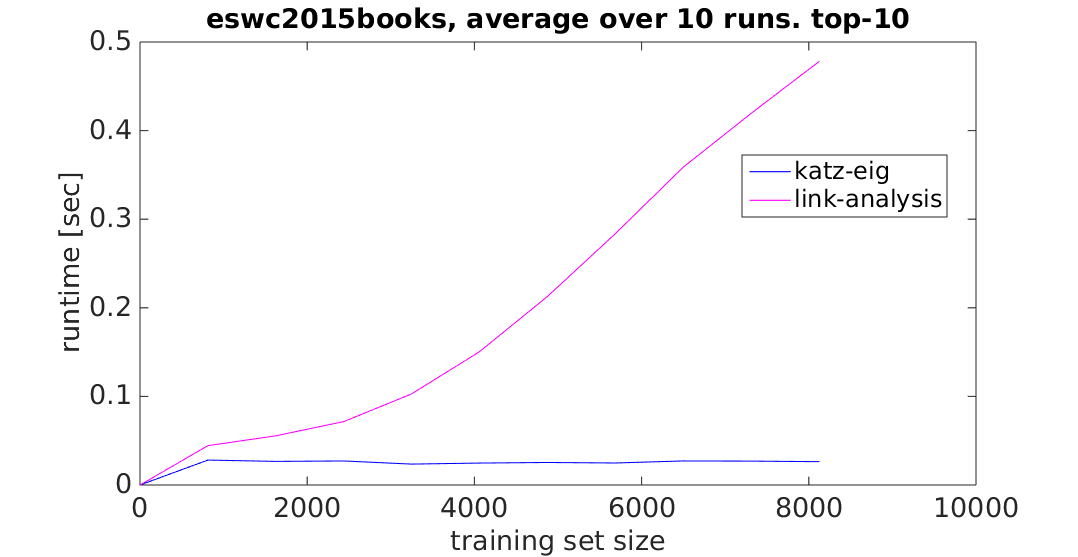
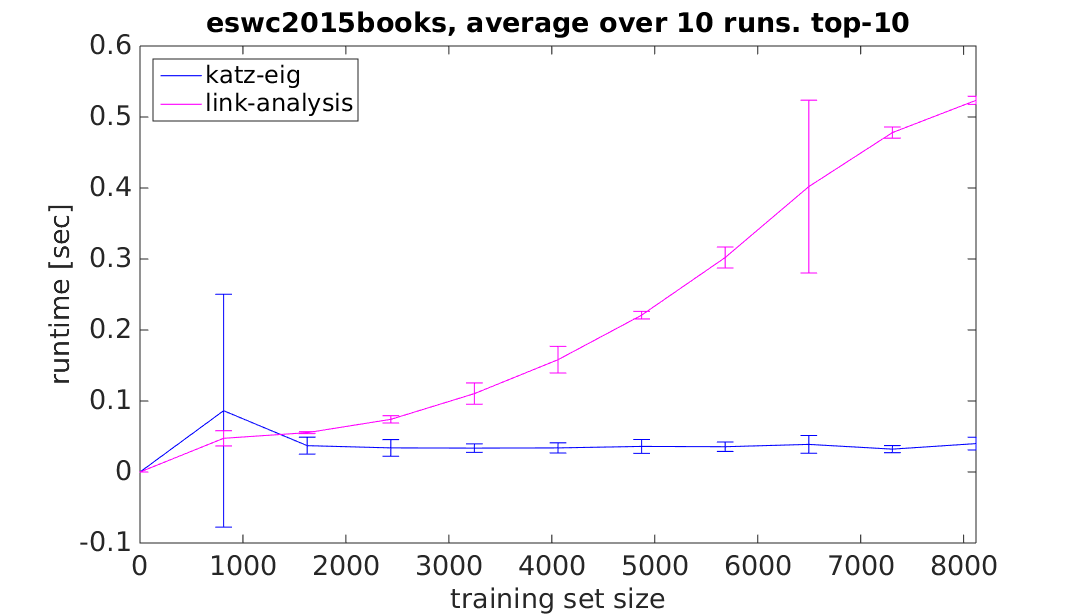
Poked in new learning curves with std deviation.
Slowpoking discussion/result a little bit.

diff --git a/report/discussion.tex b/report/discussion.tex
@@ -3,8 +3,81 @@
 \textit{Can free form sections here}
 
 \section{Recommender systems}
-
 \textit{Overall design of recommender systems and the one I designed}
+
+The recommender system developed in this thesis is bare bones with not many features. It's reasonable as it's just a first prototype, or a core, for a larger recommender system to be built upon.
+
+The list of features a modern recommender system could have is large. An important feature is the act of explaining recommendations which can be seen in both Netflix and Spotify. According to Netflix
+\footnote{\textit{Ref here}}
+explaining recommendations improves the effectiveness of the recommender system a lot. This is also supported by the literature
+\Warning[TODO]{ Ref }. The reasoning is that it increases the trust for the recommendations, if the recommendations come with a note ``Recommended to you because you watched Die Hard'' and if you liked Die Hard you're more likely to take the recommendations seriously.
+
+Another important feature is diversity of the recommendations. Netflixed notes
+\footnote{\textit{ref here}}
+that one user account might represent several different people. So a family could share an account at Netflix and use it to watch a variety of different movies, the kids might watch animated movies but the father in the house might watch action movies and someone else might only care for drama. In such cases it's very important not to only recommend one kind of movie but rather recommend different kinds of movies. For example a list of only action movies is not as useful as a mix of action, drama and animated movies.
+
+\textit{Diversity}
+\Warning[TODO]{ Ref }
+is a metric analogous to \textit{F-measure} but it instead values diversified recommendations. Other recommender algorithms (or a combinations of algorithms) might be needed for more diversity in their recommendations.
+
+The distinction between offline and online recommender systems is something not considered in the recommender system design by this thesis, but it's an important one. Instead of generating recommendations on a fixed schedule, like once a day, it is desirable to generate recommendations in real time. The way Netflix does it is to use faster and simpler algorithms for real time recommendations and more advanced supervised learning algorithms for offline recommendations which are more computationally complex.
+%As the complexity of the system grows the line between offline and online algorithms become more blurred and ...
+
+\subsection{System}
+
+In the future the functionality of the exporter module could be replaced by either the remote API or the admin web interface.
+
+The filtering functionality in the reader module could be moved to an external tool operating directly on the database. This would allow for a more efficient input of the interaction history data by streaming it directly into the database. The current implementation loads it all into memory and thereafter populates the database, which might cause memory problems if large interaction history is given.
+
+Extensions to allow for metadata about the interactions could be beneficial. Filtering away very old interactions or the ability to split the training and test sets depending on the interaction date can be very useful.
+
+
+\section{Datasets}
+
+The usage of the \textit{movielens1m} dataset can be questioned as the dataset is made up by ratings and then converted to unweighted binary form. This introduces a lot of noise and the question is what conclusions can be drawn from such a dataset.
+
+The optimal parameters for \textit{eswc2015books} are fairly strange. For \textit{katz-eig} $K = 1$ gives the best recommendation quality, but that means the recommendations are given by a rank-1 approximation. Also for \textit{link-analysis} $\gamma = 0$ gives the best recommendation quality. Which means that no penalizing users with many purchases occur.
+
+
+\section{Evaluation}
+
+The evaluation metric of \textit{F-measure} can be questioned/discussed...? Why no cost function? Probably would be better (if could be found, but can it?) ?
+
+Alternative evaluation metrics. \rmse, rank, accuracy, diversity.
+
+A common deficiency for evaluation metrics is the lack of formalization. The metrics themselves are well defined but implementation details differ and are sometimes missing which can lead to different results between similar experiments.
+
+
+\section{Parameter analysis}
+
+\subsection{katz-eig}
+
+\subsection{link-analysis}
+
+Changes of $\eta$ as long as $\eta > 0$ appears to not have a very big impact. This can be explained as the role of $\eta$ is to keep the user representativeness score high for each user to itself. The normalization step in the nextcoming iteration removes the impact of larger value of $\eta$.
+
+$\eta < 0 $ is harder to explain...
+
+Referenced article introduces $\eta = 1$, but treats it as a constant. No further comments about it!
+
+Same article: $\gamma$ is said to be in the range 0 to 1, but I found that larger ones are good and often even better.
+
+
+\section{Parameter tuning}
+
+Optimization technique interesting to try is bayesian optimization!
+
+Clustering would be nice to explore.
+
+The lack of an easy cost function to optimize against is a hinderance. In practice calculating the top-10 recommendations is a slow process and a faster way to evaluate the recommendation quality given a set of parameters would give a nice speed improvement.
+
+
+\section{Algorithm comparisons}
+
+\textit{katz-eig} has much better runtime performance compared to \textit{link-analysis} and generates comparable recommendation quality. \textit{link-analysis} have slightly better quality for sparse datasets, which is supported by the literature. In fact the primary motivation for \textit{link-analysis} is to generate recommendations for sparse data. But still, \textit{katz-eig} gives comparable performance.
+
+Optimization is very expensive, but generating recommendations for the full datasets for both algorithms are fairly fast. They can both be useful commercially when run offline.
+
 
 \section{All the rest...}
 
@@ -14,18 +87,4 @@
 
 \input{discussion/results.tex}
 \input{discussion/method.tex}
-
-Future direction/thoughts about recommender systems.
-
-Combinations of different algorithms instead of one super algorithm to rule them all.
-
-Diversity is important! Netflix has identified that one account is used by the whole family, so diverse recommendations to fulfill the need of the different family members are needed. Diversity is a measure for that, also used by the eswc competition.
-
-Explaining recommendations increases the trust for the recommendations and make them more effective.
-
-Offline/online and generating recommendations in real time.
-
-Changes of $\eta$ as long as $\eta > 0$ appears to not have a very big impact. This can be explained as the role of $\eta$ is to keep the user representativeness score high for each user to itself. The normalization step in the nextcoming iteration removes the impact of larger value of $\eta$.
-
-$\eta < 0 $ is harder to explain...
 

diff --git a/report/results/algo_comp.tex b/report/results/algo_comp.tex
@@ -13,19 +13,20 @@
 
 \begin{table}[h!]
     \centering
-    \begin{tabular}{| c | c | c | }
+    \begin{tabular}{| c | c | c | c | c |}
         \hline
-        \textbf{}               & \textbf{katz-eig} & \textbf{link-analysis} \\ \hline
-        \textit{alphaS}         & 0.322334 s        & 80.51777 s             \\ \hline
-        \textit{eswc2015books}  & 0.027862 s        & 1.527216 s             \\ \hline
-        \textit{eswc2015movies} & 48.76161 s        &                        \\ \hline
-        \textit{eswc2015music}  &                   &                        \\ \hline
-        \textit{movielens1m}    & 1.197174 s        & 75.92951 s             \\ \hline
-        \textit{romeo}          & 0.166743 s        &                        \\ \hline
+        \textbf{}               & \multicolumn{2}{c|}{\textbf{katz-eig}} & \multicolumn{2}{c|}{\textbf{katz-eig}} \\ \hline
+        \textit{alphaS}         & 0.322334 s & 0.1        & 80.51777 s   & 0.1           \\ \hline
+        \textit{eswc2015books}  & 0.027862 s & 0.1        & 1.527216 s   & 0.1           \\ \hline
+        \textit{eswc2015movies} & 48.76161 s & 0.1        &              & 0.1           \\ \hline
+        \textit{eswc2015music}  &            & 0.1        &              & 0.1           \\ \hline
+        \textit{movielens1m}    & 1.197174 s & 0.1        & 75.92951 s   & 0.1           \\ \hline
+        \textit{romeo}          & 0.166743 s & 0.1        &              & 0.1           \\ \hline
     \end{tabular}
     \caption{Runtime of the algorithms using the full interaction history using the optimized parameters given in \appendixref{app:opt_params}.}
     \label{tab:alg_full_time}
 \end{table}
+\Warning[TODO]{ avg over 10 runs, std dev, remove these }
 
 \begin{table}[h!]
     \centering

diff --git a/report/results/tuning/linkanalysis.tex b/report/results/tuning/linkanalysis.tex
@@ -8,15 +8,17 @@
         Does a gridsearch over a subset of $\gamma$ and $\eta$, given a fixed step size.
     \item[rand]
         Randomly samples over a subspace of $\gamma$ and $\eta$, given a fixed number of samples.
-    \item[adapt-hill]
+    \item[adapt-hill-full]
         A hill climbing algorithm over both $\gamma$ and $\eta$. It starts with a fixed step size and compares the neighbours. If a local optima is found, the step size is decreased. Continues until a specified function, eta or gamma tolerance has been reached.
+    \item[adapt-hill]
+        A hill climbing algorithm over $\gamma$. It starts with a fixed step size and compares the neighbours. If a local optima is found, the step size is decreased. Continues until a specified function or gamma tolerance has been reached. It fixes $\eta = 1$ and after optimizing $\gamma$ checks for $\eta = -1$.
 \end{description}
 
 \begin{table}[h!]
     \centering
     \begin{tabular}{| c | c | c | c | c | c | }
         \hline
-        \textbf{}               & \textbf{grid} & \textbf{rand} & \textbf{adapt-hill} \\ \hline
+        \textbf{}               & \textbf{grid} & \textbf{rand} & \textbf{adapt-hill-full} \\ \hline
 
 
         \textit{alphaS}         &               &               &               \\ \hline
@@ -35,7 +37,7 @@
     \centering
     \begin{tabular}{| c | c | c | c | c | c | }
         \hline
-        \textbf{}               & \textbf{grid} & \textbf{rand} & \textbf{adapt-hill} \\ \hline
+        \textbf{}               & \textbf{grid} & \textbf{rand} & \textbf{adapt-hill-full} \\ \hline
 
 
         \textit{alphaS}         &               &               &               \\ \hline

diff --git a/report/results/tuning/katzeig.tex b/report/results/tuning/katzeig.tex
@@ -9,9 +9,9 @@ What follows is a description of the different optimization techniques evaluated
 
 \begin{description}
     \item[grid]
-        Does a grid search over $K$, with a fixed step size. $\beta$ was fixed.
+        Does a grid search over $K$, with a fixed step size. $\beta$ was fixed. $0 < K \leq 50$ was examined.
     \item[grid-full]
-        Does a grid search over both $K$ and $\beta$, with fixed but possibly different step sizes.
+        Does a grid search over both $K$ and $\beta$, with fixed but possibly different step sizes. $0 < K \leq 50$ was examined.
     \item[rand]
         A random sampling over a subspace of $K$ with a fixed $\beta$. Depends on the size of the subset to sample over and the number of samples.
     \item[hill]
@@ -62,4 +62,5 @@ What follows is a description of the different optimization techniques evaluated
     \label{tab:katzeig_tuning_sec}
 \end{table}
 \Warning[TODO]{ Need system specs! }
+\Warning[TODO]{ Need std variance! }
 

diff --git a/report/results/learning_curves.tex b/report/results/learning_curves.tex
@@ -5,7 +5,7 @@ Learning curves plots the evaluation metric with respect to a varying training s
 
 The evaluation uses the training matrix $A_{train}$ and the test set matrix $A_{test}$. For each step a random selection of a specific size is selected from $A_{train}$, recommendations are generated and evaluated against the same test set $A_{test}$. The dimensions of the matrices will the same, only the number of non-zero elements are increased with the training set size. This was done 10 times for each training set size as to remove variations from the random selection. Ideally more repetitions should be done but due to time constraints they were not.
 
-Optimized parameters as described in \appendixref{app:opt_params} were used.
+Optimized parameters as described in \appendixref{app:opt_params} were used. The plots also describe the standard deviation.
 
 \twopic{fig/learning_curves/alphaS_learning_perf.png}{fig/learning_curves/alphaS_learning_time.png}{
 \textit{alphaS}

diff --git a/report/discussion/method.tex b/report/discussion/method.tex
@@ -6,14 +6,3 @@
 
 \textit{Also discuss sources.}
 
-The usage of the \textit{movielens1m} dataset can be questioned as the dataset is made up by ratings and then converted to unweighted binary form. This introduces a lot of noise and the question is what conclusions can be drawn from such a dataset.
-
-The evaluation metric of \textit{F-measure} can be questioned/discussed...? Why no cost function? Probably would be better (if could be found, but can it?) ?
-
-Alternative evaluation metrics. \rmse, rank, accuracy, ...?
-
-Optimization technique interesting to try is bayesian optimization! (can we try it?)
-
-Clustering would be nice to explore (if we don't do it in the thesis).
-
-A common deficiency for evaluation metrics is the lack of formalization. The metrics themselves are well defined but implementation details differ and are sometimes missing which can lead to different results between similar experiments.

diff --git a/report/discussion/results.tex b/report/discussion/results.tex
@@ -5,14 +5,4 @@
 
 Comment on strange evaluation results using precision/recall/F1 definitions from another article?
 
-\subsection{System}
-
-In the future the functionality of the exporter module could be replaced by either the remote API or the admin web interface.
-
-
-\subsection{link-analysis}
-
-Referenced article introduces $\eta$, but treats it as a constant. My findings are different and shows better results for other values, possibly even for negative values.
-
-Similarly $\gamma$ is said to be in the range 0 to 1, but I found that larger ones are good and often even better.
 
